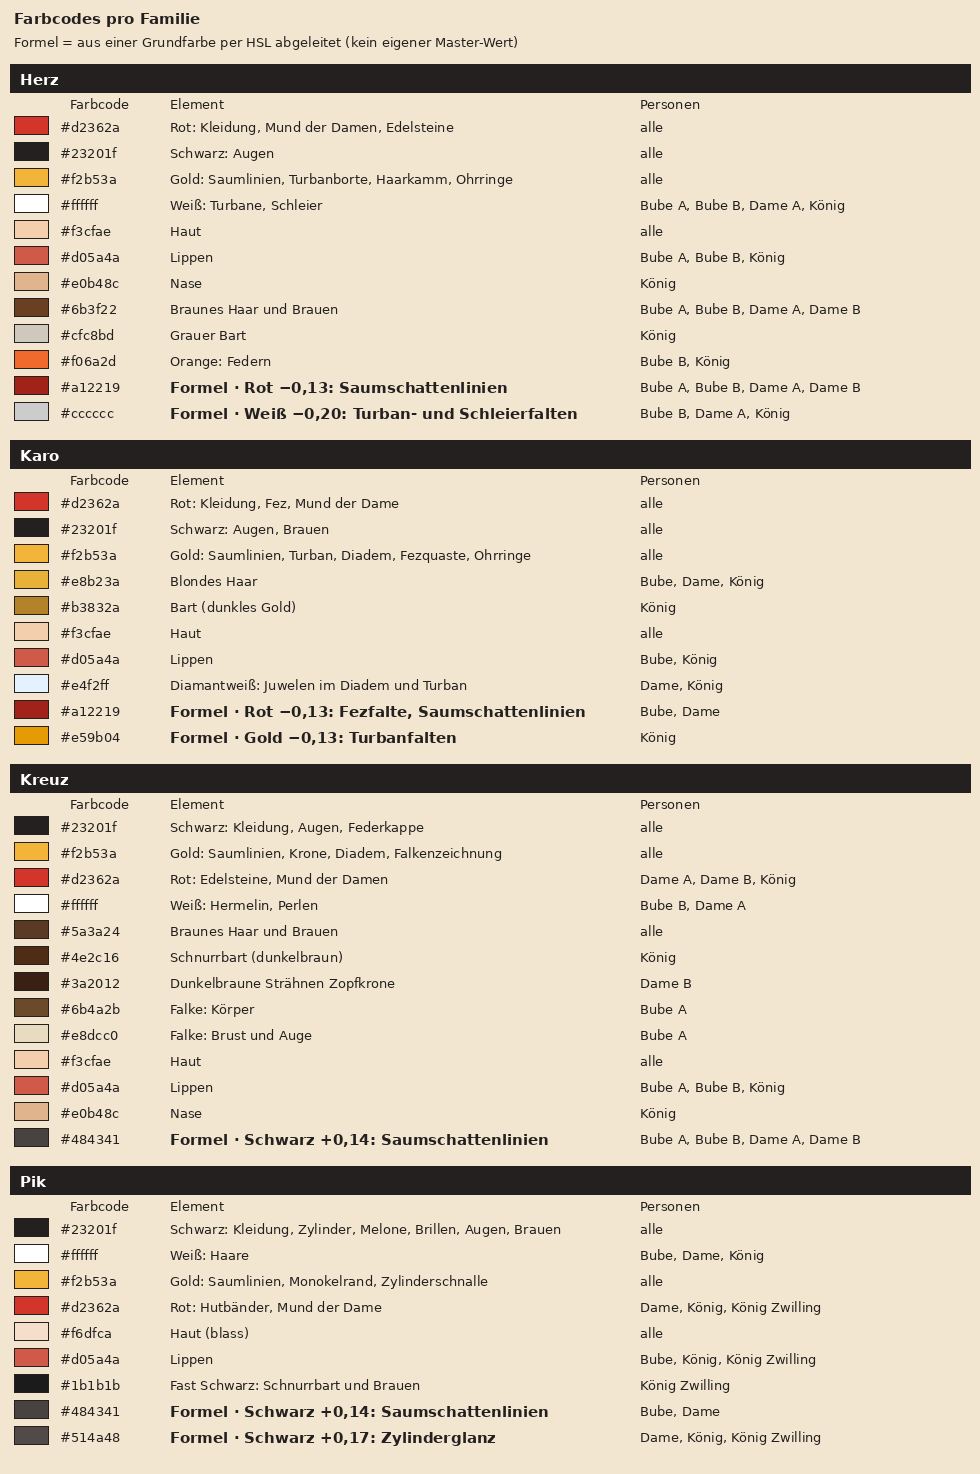
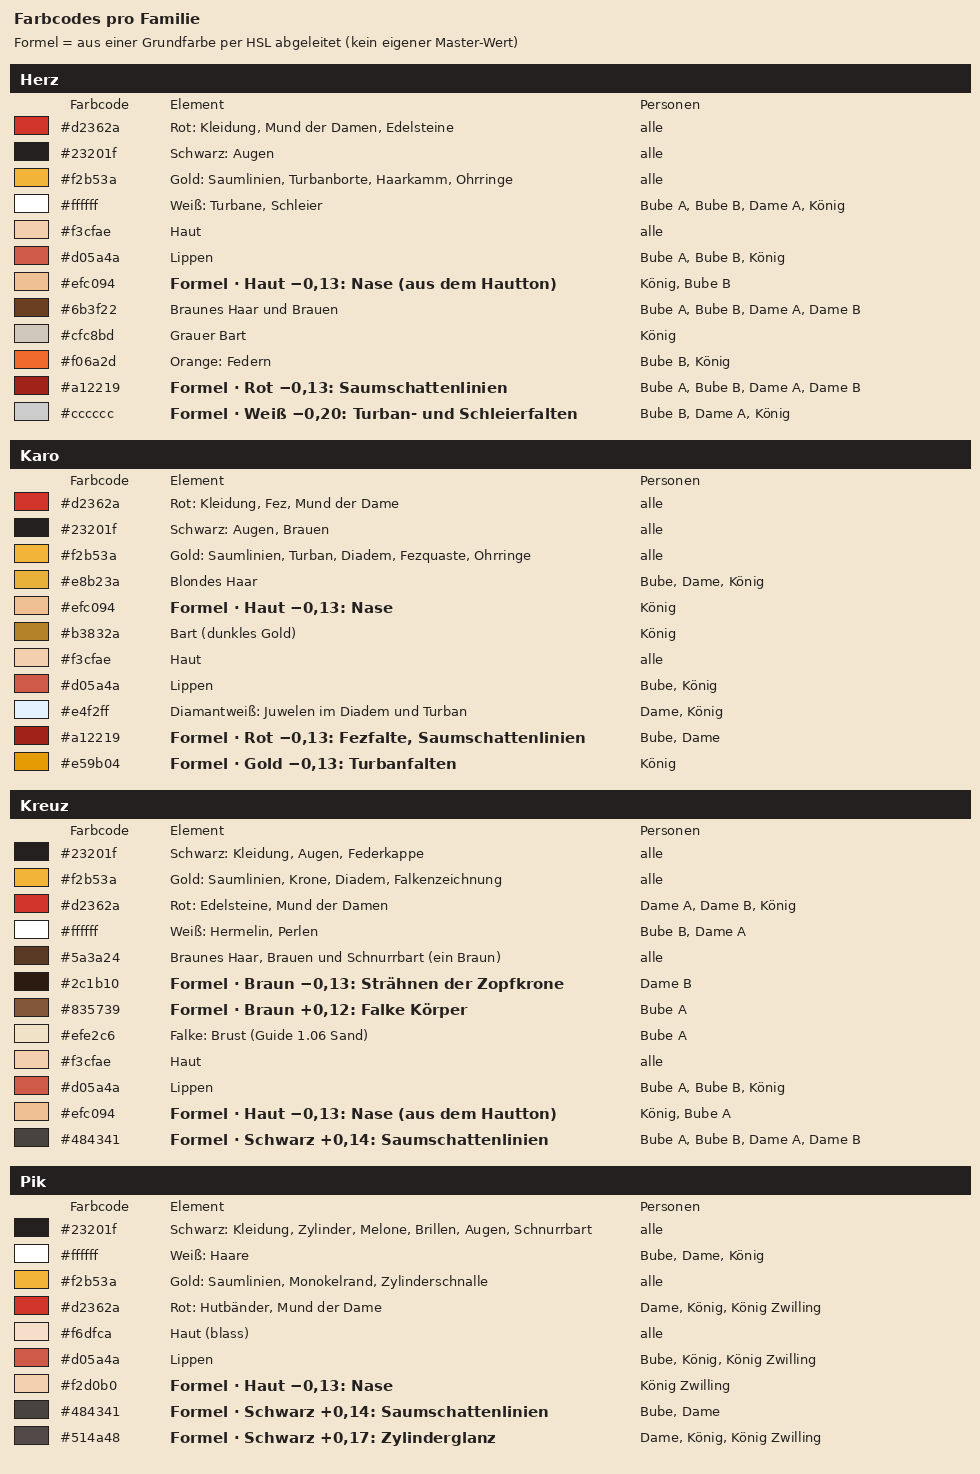
Bildkarten: Nase per Formel, Schwarz vereinheitlicht, ein Kreuz-Braun, Falke aus Haarbraun und Guide-Sand
Claude-Session: https://claude.ai/code/session_01Tx2u5otHVnQBi24QLsTvXx

diff --git a/design/bildkarten/code/farben_pro_familie.py b/design/bildkarten/code/farben_pro_familie.py
@@ -3,25 +3,26 @@ import os,sys
 sys.path.insert(0,os.path.dirname(os.path.abspath(__file__)))
 from PIL import Image, ImageDraw
 from lib import hx, FONT, FONTB, C
+import tiefe
+h6=lambda c:'%02x%02x%02x'%tuple(c[:3])
+SKIN=hx('f3cfae'); SKINP=hx('f6dfca'); BR=hx('5a3a24')
 BG=(0xf2,0xe6,0xd0); INK=C['ink']
 D={ # Familie: [(hex, Element, Personen, formel?)]
 'Herz':[('d2362a','Rot: Kleidung, Mund der Damen, Edelsteine','alle',0),('23201f','Schwarz: Augen','alle',0),('f2b53a','Gold: Saumlinien, Turbanborte, Haarkamm, Ohrringe','alle',0),
- ('ffffff','Weiß: Turbane, Schleier','Bube A, Bube B, Dame A, König',0),('f3cfae','Haut','alle',0),('d05a4a','Lippen','Bube A, Bube B, König',0),('e0b48c','Nase','König',0),
+ ('ffffff','Weiß: Turbane, Schleier','Bube A, Bube B, Dame A, König',0),('f3cfae','Haut','alle',0),('d05a4a','Lippen','Bube A, Bube B, König',0),('%s'%h6(tiefe.lo(SKIN)),'Haut −0,13: Nase (aus dem Hautton)','König, Bube B',1),
  ('6b3f22','Braunes Haar und Brauen','Bube A, Bube B, Dame A, Dame B',0),('cfc8bd','Grauer Bart','König',0),('f06a2d','Orange: Federn','Bube B, König',0),
  ('a12219','Rot −0,13: Saumschattenlinien','Bube A, Bube B, Dame A, Dame B',1),('cccccc','Weiß −0,20: Turban- und Schleierfalten','Bube B, Dame A, König',1)],
 'Karo':[('d2362a','Rot: Kleidung, Fez, Mund der Dame','alle',0),('23201f','Schwarz: Augen, Brauen','alle',0),('f2b53a','Gold: Saumlinien, Turban, Diadem, Fezquaste, Ohrringe','alle',0),
- ('e8b23a','Blondes Haar','Bube, Dame, König',0),('b3832a','Bart (dunkles Gold)','König',0),('f3cfae','Haut','alle',0),('d05a4a','Lippen','Bube, König',0),
+ ('e8b23a','Blondes Haar','Bube, Dame, König',0),('%s'%h6(tiefe.lo(SKIN)),'Haut −0,13: Nase','König',1),('b3832a','Bart (dunkles Gold)','König',0),('f3cfae','Haut','alle',0),('d05a4a','Lippen','Bube, König',0),
  ('e4f2ff','Diamantweiß: Juwelen im Diadem und Turban','Dame, König',0),
  ('a12219','Rot −0,13: Fezfalte, Saumschattenlinien','Bube, Dame',1),('e59b04','Gold −0,13: Turbanfalten','König',1)],
 'Kreuz':[('23201f','Schwarz: Kleidung, Augen, Federkappe','alle',0),('f2b53a','Gold: Saumlinien, Krone, Diadem, Falkenzeichnung','alle',0),
  ('d2362a','Rot: Edelsteine, Mund der Damen','Dame A, Dame B, König',0),('ffffff','Weiß: Hermelin, Perlen','Bube B, Dame A',0),
- ('5a3a24','Braunes Haar und Brauen','alle',0),('4e2c16','Schnurrbart (dunkelbraun)','König',0),('3a2012','Dunkelbraune Strähnen Zopfkrone','Dame B',0),
- ('6b4a2b','Falke: Körper','Bube A',0),('e8dcc0','Falke: Brust und Auge','Bube A',0),('f3cfae','Haut','alle',0),('d05a4a','Lippen','Bube A, Bube B, König',0),('e0b48c','Nase','König',0),
+ ('5a3a24','Braunes Haar, Brauen und Schnurrbart (ein Braun)','alle',0),('%s'%h6(tiefe.lo(BR)),'Braun −0,13: Strähnen der Zopfkrone','Dame B',1),('%s'%h6(tiefe.hi(BR)),'Braun +0,12: Falke Körper','Bube A',1),('efe2c6','Falke: Brust (Guide 1.06 Sand)','Bube A',0),('f3cfae','Haut','alle',0),('d05a4a','Lippen','Bube A, Bube B, König',0),('%s'%h6(tiefe.lo(SKIN)),'Haut −0,13: Nase (aus dem Hautton)','König, Bube A',1),
  ('484341','Schwarz +0,14: Saumschattenlinien','Bube A, Bube B, Dame A, Dame B',1)],
-'Pik':[('23201f','Schwarz: Kleidung, Zylinder, Melone, Brillen, Augen, Brauen','alle',0),('ffffff','Weiß: Haare','Bube, Dame, König',0),
+'Pik':[('23201f','Schwarz: Kleidung, Zylinder, Melone, Brillen, Augen, Schnurrbart','alle',0),('ffffff','Weiß: Haare','Bube, Dame, König',0),
  ('f2b53a','Gold: Saumlinien, Monokelrand, Zylinderschnalle','alle',0),('d2362a','Rot: Hutbänder, Mund der Dame','Dame, König, König Zwilling',0),
- ('f6dfca','Haut (blass)','alle',0),('d05a4a','Lippen','Bube, König, König Zwilling',0),('1b1b1b','Fast Schwarz: Schnurrbart und Brauen','König Zwilling',0),
- ('484341','Schwarz +0,14: Saumschattenlinien','Bube, Dame',1),('514a48','Schwarz +0,17: Zylinderglanz','Dame, König, König Zwilling',1)],
+ ('f6dfca','Haut (blass)','alle',0),('d05a4a','Lippen','Bube, König, König Zwilling',0),('%s'%h6(tiefe.lo(SKINP)),'Haut −0,13: Nase','König Zwilling',1), ('484341','Schwarz +0,14: Saumschattenlinien','Bube, Dame',1),('514a48','Schwarz +0,17: Zylinderglanz','Dame, König, König Zwilling',1)],
 }
 def main(path):
     rh=26; hh=34; gap=12; W_=980

diff --git a/design/bildkarten/code/comp.py b/design/bildkarten/code/comp.py
@@ -1,11 +1,11 @@
 from lib import *
 import parts as P
-SKIN_PALE=hx('f8e3d2'); GRAY_BEARD=hx('cfc8bd'); BLACK=hx('1b1b1b'); BROWN=hx('5a3a24'); DBROWN=hx('4e2c16')
+SKIN_PALE=hx('f8e3d2'); GRAY_BEARD=hx('cfc8bd'); BLACK=C['ink']; BROWN=hx('5a3a24'); DBROWN=BROWN
 GREEN=hx('4f8a3a'); LGREEN=hx('86b868'); POWDER=hx('ebe6de'); SHADE=hx('d8cfbf'); STEEL=C['inkL']; DSTEEL=hx('8a847e'); RUBY=C['red']
 def letters(suit,pal):
     ink=inkOf(suit); light=lightOf(suit)
     m=dict(S=C['skin'],E=C['ink'],M=C['mouth'],H=HAIR[suit],B=BEARD[suit],G=C['gold'],W=C['white'],V=SHADE,P=POWDER,
-           R=ink,L=light,K=C['ink'],N=STEEL,n=DSTEEL,k=C['ink'],T=hx('e0b48c'),v=hx('cdb98e'),O=hx('e8dcc0'),q=hx('b08050'),u=hx('c9b27c'),w=hx('6b4a2b'),h=hx('3a2012'),y=hx('f2d43a'),b=hx('3a78c8'),Z=C['red'],Q=GREEN,F=C['orange'],A=ink,a=C['ink'],J=C['red'])
+           R=ink,L=light,K=C['ink'],N=STEEL,n=DSTEEL,k=C['ink'],T=hx('e0b48c'),v=hx('cdb98e'),O=C['sand'],q=hx('b08050'),u=hx('c9b27c'),w=hx('6b4a2b'),h=hx('3a2012'),y=hx('f2d43a'),b=hx('3a78c8'),Z=C['red'],Q=GREEN,F=C['orange'],A=ink,a=C['ink'],J=C['red'])
     m.update(pal); return m
 EMPH={'ohne':None,'kontur_hell':C['inkL'],'kontur_dunkel':hx('5a3a2c'),'schlagschatten':C['inkL'],'innenschatten':hx('b8ab93')}
 def is_light(rgb): return (max(rgb[:3])-min(rgb[:3]))<=40 and sum(rgb[:3])/3>=185
@@ -32,6 +32,8 @@ def compose(suit,spec,emph='ohne'):
     pal=spec.get('pal',{}); cm=letters(suit,pal)
     import tiefe as _t; cm['t']=_t.lo(cm['S'])      # Nase per Formel aus der Hautfarbe
     cm['k']=_t.glanz(cm['K'])                       # Zylinder-Glanz per Formel (früher Handfarbe 5a4d44)
+    cm['w']=_t.hi(cm['H'])                          # Falkenbraun aus dem Haarbraun der Person (Formel)
+    cm['h']=_t.lo(cm['H'])                          # dunklere Strähnen aus demselben Braun (Formel)
     cm['V']=_t.fold(cm['W'])                        # Falten in Weiß per Formel (früher d8cfbf)
     if 'a' in pal: cm['a']=_t.fold(cm['A'])         # Fez-/Turbanfalten per Formel (früher a02a20, c8902a, d8cfbf)
     layers=[P.BODY[spec['body']]]

diff --git a/design/bildkarten/code/parts.py b/design/bildkarten/code/parts.py
@@ -236,7 +236,7 @@ HAIR['pony_c']=rows_raw(12,['...HHHHHHHHHH...','..HHHHHHHHHHHH..','..HHHHHHHHH..
 HAIR['pony_d']=part(12,['...HHHHH','..HHHHHH','..HHHH..','..HH....','..HH....','..H.....'])   # Mittelscheitel
 EXTRA['monokel_l']={15:'....GGG.........',16:'....G.G.........',17:'....GGG.........',18:'....G...........',19:'....G...........',20:'...G............',21:'...G............',22:'...G............'}
 EXTRA['brauen']={15:'....HHH..HHH....'}
-EXTRA['nase']={17:'.......TT.......'}
+EXTRA['nase']={17:'.......tt.......'}      # Nase per Formel aus der Hautfarbe (t)
 EXTRA['schlaefen']={14:'...H........H...',15:'...H........H...',16:'...H........H...',17:'...BB......BB...'}
 EXTRA['wangenbogen']={15:'...B........B...',16:'...BB......BB...',17:'...BBB....BBB...'}
 EXTRA['turbanschatten']={14:'....TTTTTTTT....'}

diff --git a/design/bildkarten/code/lib.py b/design/bildkarten/code/lib.py
@@ -8,7 +8,7 @@ _TOK=_os.path.join(_os.path.abspath(_os.path.join(_os.path.dirname(_os.path.absp
 if not _os.path.exists(_TOK): _TOK='/home/user/cheft/src/ui/tokens.ts'
 _PAL=dict(re.findall(r"\{ id: '(1\.\d\d)', css: '[^']+', name: '[^']+', value: '(#[0-9a-fA-F]{6})'",open(_TOK).read()))
 def T(i): return hx(_PAL[i])
-GUIDE_IDS=dict(ink='1.01',cream='1.05',orange='1.10',orangeD='1.11',gold='1.13',red='1.14',inkL='1.20',redL='1.21',skin='1.22',mouth='1.23',white='1.24')
+GUIDE_IDS=dict(ink='1.01',cream='1.05',orange='1.10',orangeD='1.11',sand='1.06',gold='1.13',red='1.14',inkL='1.20',redL='1.21',skin='1.22',mouth='1.23',white='1.24')
 C={k:T(v) for k,v in GUIDE_IDS.items()}
 HAIR=dict(H=T('1.26'),D=T('1.27'),C=T('1.28'),S=T('1.29'))
 BEARD=dict(H=T('1.30'),D=T('1.31'),C=T('1.32'),S=T('1.33'))

diff --git a/design/bildkarten/code/masters_v2.py b/design/bildkarten/code/masters_v2.py
@@ -29,7 +29,7 @@ for _n,_v in _extra.items():
 MASTERS_V2={n:spec_v2(n) for n in _M}
 
 # ---- Ergänzung: Kreuz König (CK-c neu): fünfzackige Goldkrone, schmaler Schnurrbart wie CK-i, Brauen und Nase
-_BROWN=hx('5a3a24'); _DBROWN=hx('4e2c16')
+_BROWN=hx('5a3a24'); _DBROWN=_BROWN
 _M['kreuz_koenig']=('C',13,'schlagschatten',mk('krone_k','schnurr','kurz',('brauen','nase'),KING_DYN,H=_BROWN,B=_DBROWN,J=C['red']))
 MASTERS_V2={n:spec_v2(n) for n in _M}
 

diff --git a/design/bildkarten/code/final_auswahl.py b/design/bildkarten/code/final_auswahl.py
@@ -14,7 +14,7 @@ import parts as P
 
 BG=(0xf2,0xe6,0xd0)
 WHITE=C['white']; RED=C['red']; GOLD=C['gold']; INK=C['ink']
-BROWN=hx('5a3a24'); DBROWN=hx('4e2c16'); BLACK=hx('1b1b1b'); SKIN_PIK=hx('f6dfca')
+BROWN=hx('5a3a24'); DBROWN=BROWN; BLACK=C['ink']; SKIN_PIK=hx('f6dfca')
 HH=dict(M=RED); KB=dict(H=BROWN,B=DBROWN); KD=dict(H=BROWN,M=RED)
 OLD_FALKE=['..www.','.wwKwG','wwOOw.','wwOOw.','.G.G..']      # Falken-Zeichnung (freigegeben, NICHT ändern)
 
